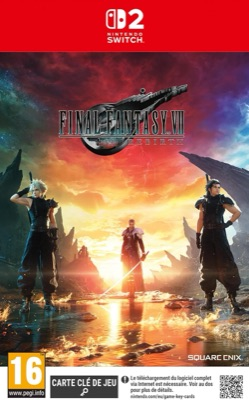
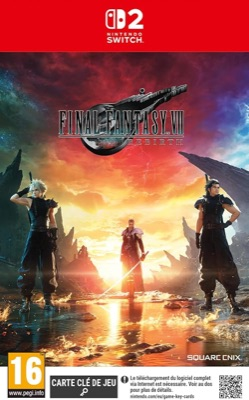
Jaquettes officielles des jeux Switch 2

diff --git a/WORKLOG.md b/WORKLOG.md
@@ -85,6 +85,11 @@
   `fulfilled` (Kirby Air Riders, Kirby Monde Oublié, Kirby Star Allies)
 - The Legend of Zelda: Skyward Sword HD (Amazon, 403-5291269-6937148) passé en
   `delivered`, livré le 21/09 selon la page de commande Amazon
+- Jaquettes des 5 jeux Switch 2 remplacées par les packshots officiels des boîtes
+  françaises (fiches Amazon.fr, fond blanc, 800 px) : Kirby Air Riders, Metroid
+  Prime 4 et Kirby Monde Oublié Switch 2 Edition, Final Fantasy VII Rebirth et
+  Remake Intergrade. Les photos d'annonces Vinted posées la veille étaient de
+  travers et mal éclairées
 
 ## Changed
 - Neuf jeux passent en **rang S** (`data/games.json`), leur `qualityTier` etait
